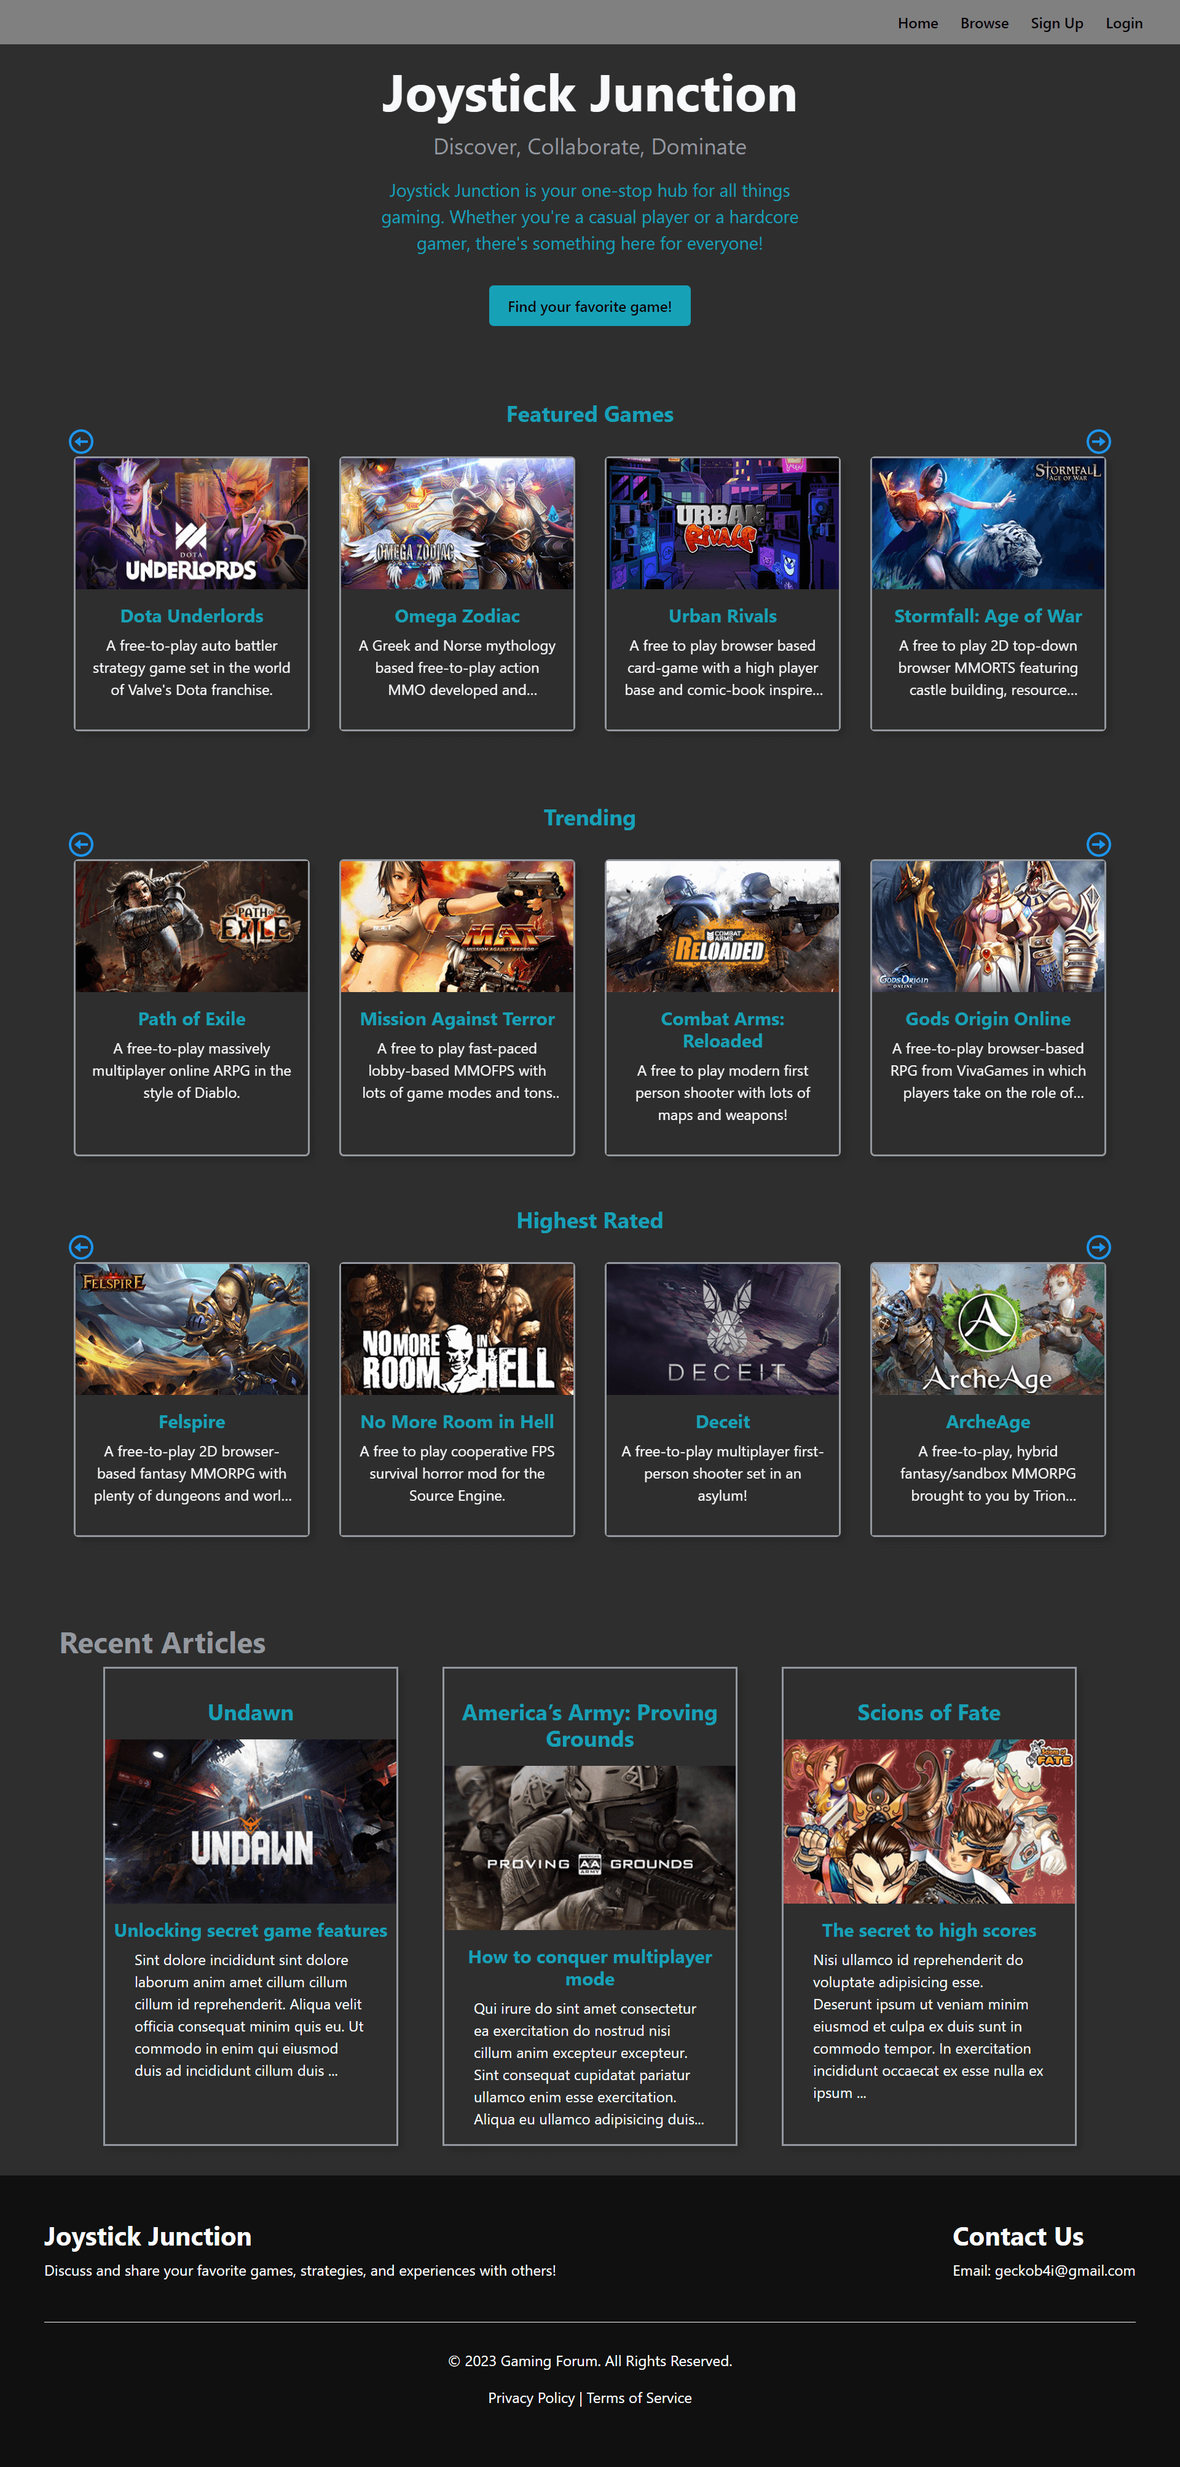
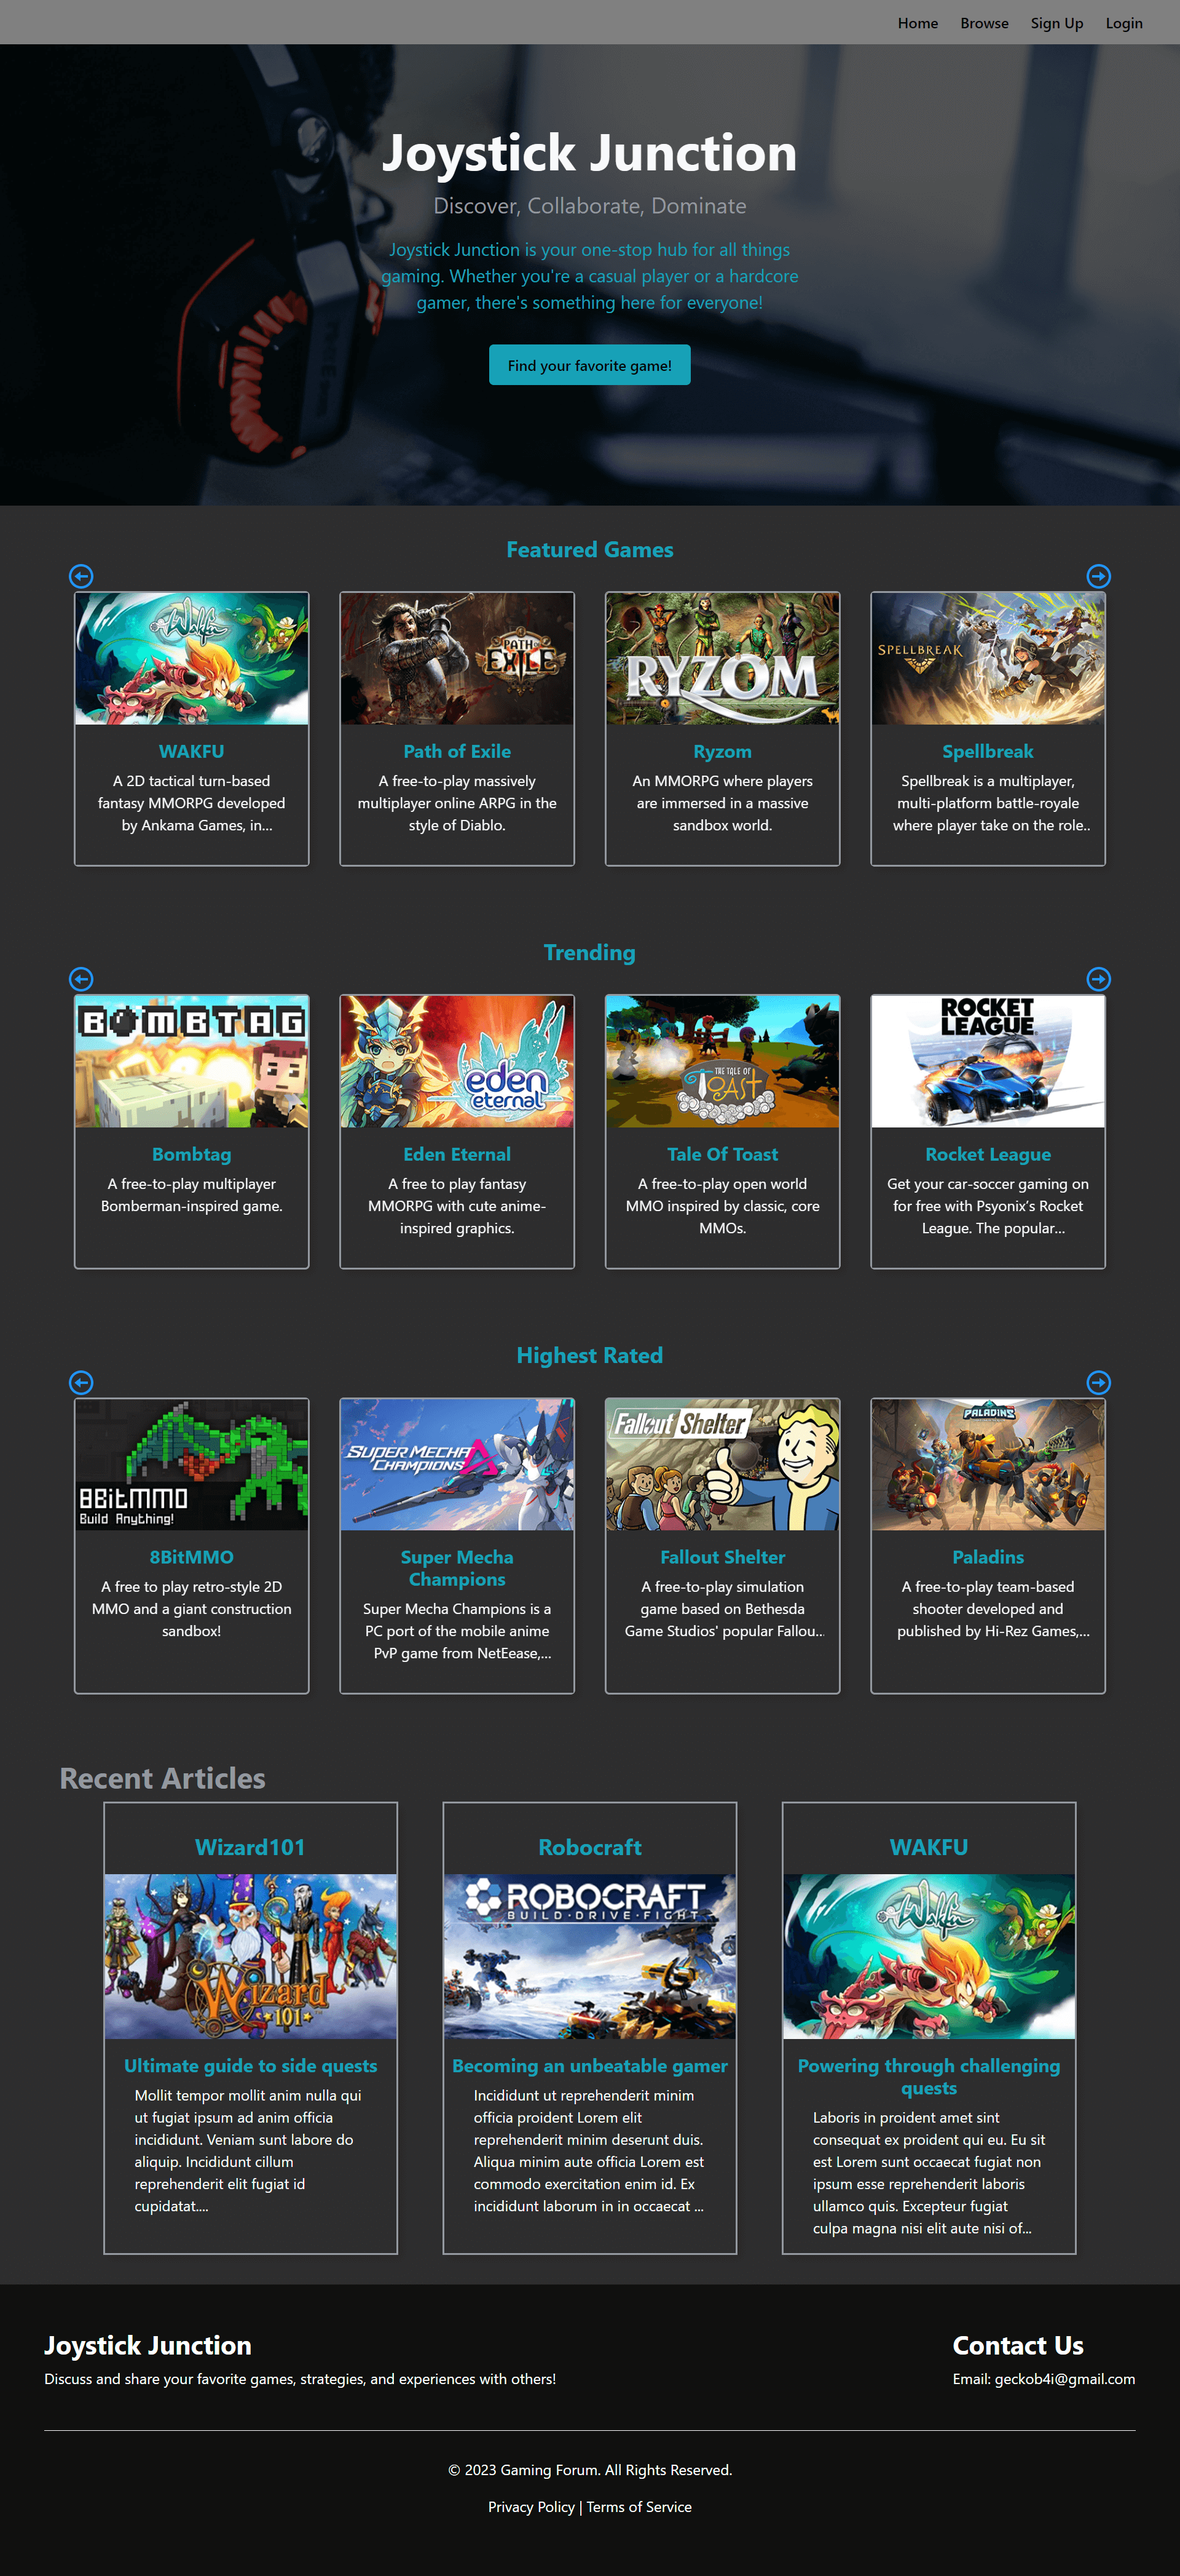
Add Hero section with hero image

diff --git a/client/src/styles/global.css b/client/src/styles/global.css
@@ -17,6 +17,7 @@ body {
   margin: 0;
   padding: 0;
   box-sizing: border-box;
+  overflow-x: hidden;
 }
 
 textarea {
@@ -412,6 +413,39 @@ textarea::placeholder {
   font-size: 1.2rem;
 }
 
+/* === Hero Section === */
+
+.hero-container {
+  background-image: url('../components/Assets/Images/hero.jpg'); 
+  height: 500px; 
+  width: 100vw;
+  margin-top: -1rem;
+  margin-left: -4rem;
+  /* margin-right: 1rem; */
+  background-size: cover; 
+  background-position: center; 
+  position: relative;
+  opacity: 1;
+}
+
+
+.hero-container::before {
+  content: "";
+  position: absolute;
+  top: 0;
+  right: 0;
+  bottom: 0;
+  left: 0;
+
+  background: rgba(0, 0, 0, 0.65); /* This is the overlay, adjust color and opacity as needed */
+}
+
+.hero-content-container {
+  position: relative;
+  z-index: 2;
+  padding-top: 5rem;
+}
+
 
 
 /* === Header Section === */
@@ -430,6 +464,10 @@ header {
   color: var(--black);
   margin-right: .5rem;
   /* height: 2rem; */
+}
+
+.navbar-collapse {
+  z-index: 100;
 }
 
 .nav-link:last-of-type {
@@ -1154,6 +1192,18 @@ footer h3, footer p {
   }
 }
 
+@media (max-width: 460px) {
+  .hero-content-container h1 {
+    font-size: 2.9rem;
+  } 
+}
+
+@media (max-width: 380px) {
+  .hero-container {
+    height: 550px;
+  } 
+}
+
 @media (max-width: 810px) {
   .header-links {
     font-size:.82rem;
@@ -1179,6 +1229,7 @@ footer h3, footer p {
   }
   .login-button {
     padding-right: 0rem;
+    padding-left: 1rem;
   }
 }
 

diff --git a/client/src/components/HomePage/Hero.jsx b/client/src/components/HomePage/Hero.jsx
@@ -1,0 +1,26 @@
+import React from 'react';
+import { Link } from 'react-router-dom'
+
+const Hero = () => {
+    return (
+        <div className="hero-container">
+            <div className="hero-content-container">
+                <div className="homepage-introduction-section">
+                    <h1 id="homepage-introduction-heading">Joystick Junction</h1>
+                    <p id="homepage-introduction-tagline">Discover, Collaborate, Dominate</p>
+                    <p className="homepage-introduction-description" id="homepage-introduction-description">
+                        Joystick Junction is your one-stop hub for all things gaming. Whether you're a casual player or a hardcore gamer, there's something here for everyone!
+                    </p>
+                </div>
+
+                <div className="call-to-action-button-container">
+                    <Link to="/browse" className="call-to-action-button" as="button" aria-labelledby="homepage-introduction-heading" aria-describedby="homepage-introduction-tagline homepage-introduction-description">
+                        Find your favorite game!
+                    </Link>
+                </div>
+            </div>
+        </div>
+    );
+}
+
+export default Hero;

diff --git a/client/src/components/HomePage/HomePage.jsx b/client/src/components/HomePage/HomePage.jsx
@@ -1,24 +1,12 @@
-import { Link } from "react-router-dom";
 import FeaturedGamesCarousel from "./FeaturedGamesCarousel";
 import RecentArticles from "./RecentArticles";
+import Hero from './Hero'
 
 const HomePage = () => {
 
     return (
         <section>
-            <div className="homepage-introduction-section">
-                <h1 id="homepage-introduction-heading">Joystick Junction</h1>
-                <p id="homepage-introduction-tagline">Discover, Collaborate, Dominate</p>
-                <p className="homepage-introduction-description" id="homepage-introduction-description">
-                    Joystick Junction is your one-stop hub for all things gaming. Whether you're a casual player or a hardcore gamer, there's something here for everyone!
-                </p>
-            </div>
-
-            <div className="call-to-action-button-container">
-                <Link to="/browse" className="call-to-action-button" as="button" aria-labelledby="homepage-introduction-heading" aria-describedby="homepage-introduction-tagline homepage-introduction-description">
-                    Find your favorite game!
-                </Link>
-            </div>
+            <Hero />
 
             <FeaturedGamesCarousel />
 

diff --git a/README.md b/README.md
@@ -29,6 +29,7 @@ The user can enter a name of a game or choose to select the categories they wish
 The user can choose to play or checkout what other users have to say about the game.
 ## **Category Page**
 <img src="./client/src/components/Assets/Images/categorypage.png" alt="Screenshot of the category page" width="1000"/>
+
 The user can create a post or comment on others posts / comments. Mock users have been created to simulate real users.
 
 ## **Purpose and Inspiration**
